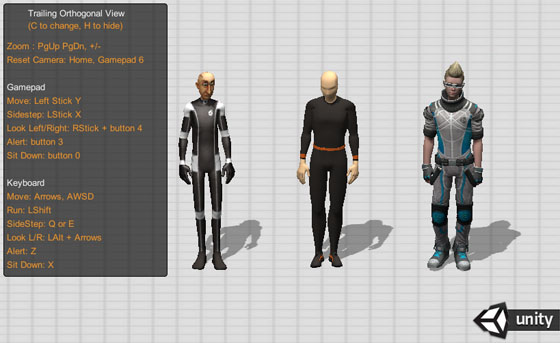
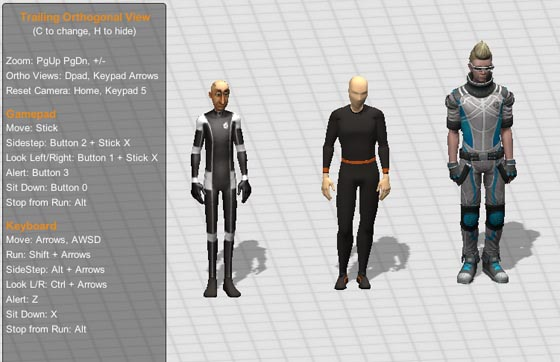
Update player image

diff --git a/MotionPack.html b/MotionPack.html
@@ -55,7 +55,7 @@
 	<p><span class="subheader">MOCAPI MOTION PACK PREVIEW</span></br>	
 (you may be prompted to allow Unity Player to run in your browser)</p>
 
-	<p><a href="http://www.mocapianimation.com/Unity/MocapiMotionPackPreview.html" target="_blank"><img border="0" src="images/UnityPlayer.jpg" width="560" height="343" /></a></p>
+	<p><a href="http://www.mocapianimation.com/Unity/MocapiMotionPackPreview.html" target="_blank"><img border="0" src="images/UnityPlayer.jpg" width="560" height="362" /></a></p>
 
 	</h42>	
 	</div>
